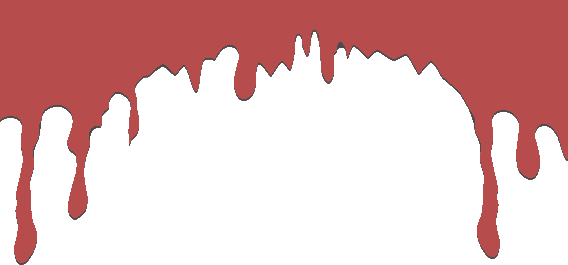
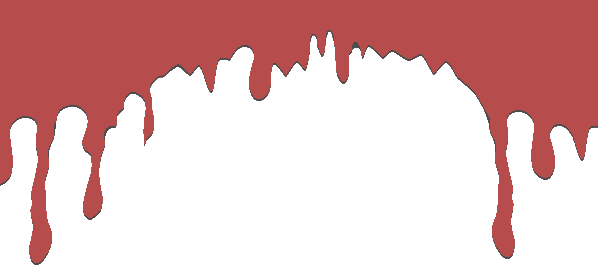
nouvelle image de sang avec fond perdu

Changed region(s): [[0.0, 0.1509, 0.4489, 1.0], [0.5088, 0.1208, 1.0, 0.9962], [0.4489, 0.2415, 0.5088, 0.3321]]

diff --git a/card_generator.css b/card_generator.css
@@ -263,10 +263,10 @@ textarea {
 }
 
 .calque_ultrared_bleeding_1, .calque_ultrared_bleeding_2 {
-	width: 568px;
-	height: 290px;
-	margin-top: -55px;
-	margin-left:-40px;
+    width: 598px;
+    height: 290px;
+    margin-top: -55px;
+    margin-left: -55px;
 }
 
 .calque_ultrared_bleeding_3 {
